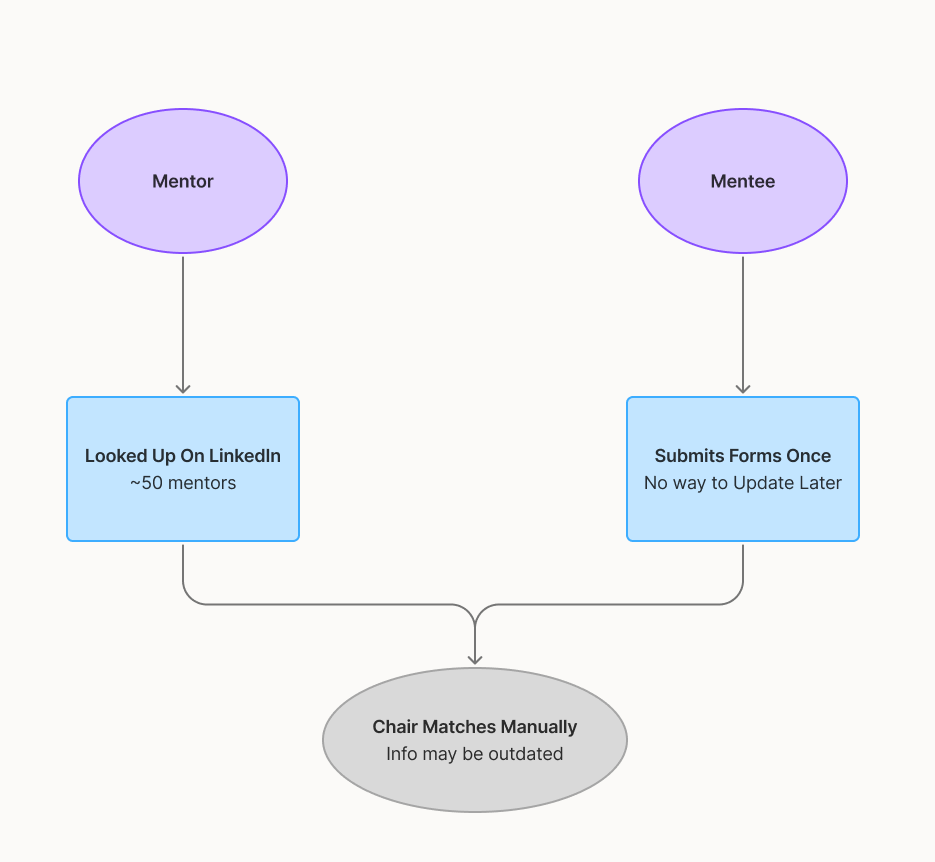
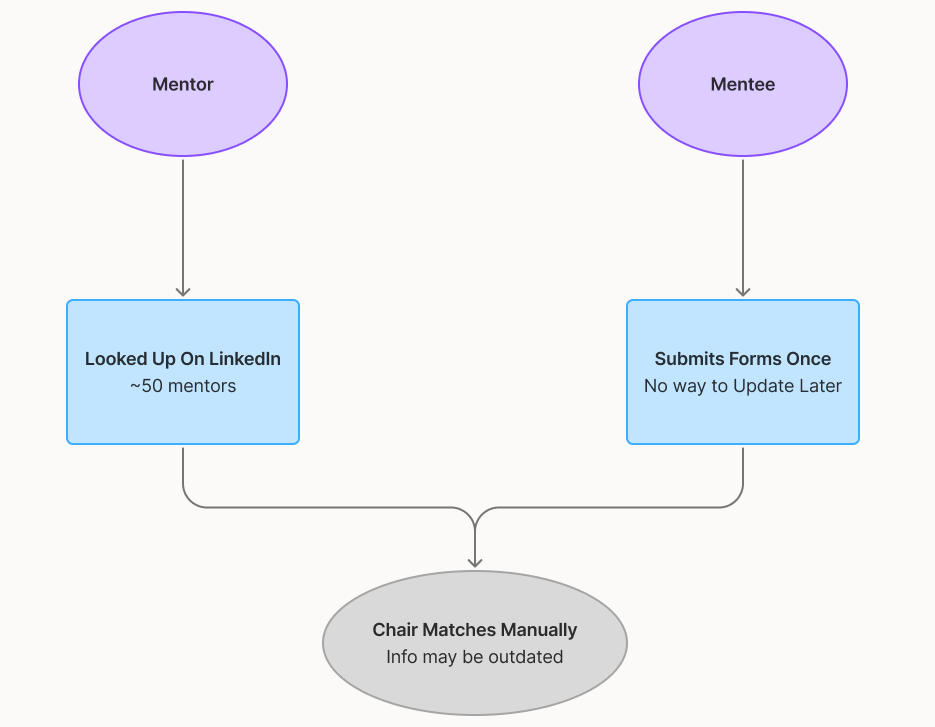
Reword Mentorship Platform research insight #3 (career misalignment)
Claude-Session: https://claude.ai/code/session_01LuSoDMzCnjxERcvJJePQG7

diff --git a/main.js b/main.js
@@ -413,7 +413,7 @@ const cases = [
     insights: [
       { q: 'Mentors never submitted anything', a: 'Their background had to be gathered from LinkedIn by hand, one profile at a time.' },
       { q: 'Mentees couldn\'t remember or change what they wrote', a: 'The form was filled out months before matching, and there was no way to go back and update it.' },
-      { q: 'Shared context helped mentorships last', a: 'Pairs with something in common sustained the relationship more easily.' },
+      { q: 'Career misalignment led to drop-off', a: 'Mentees were more likely to leave when their mentor\'s career path or specialty didn\'t align with theirs.' },
       { q: 'Every platform we looked at offered import', a: 'None of them asked people to type their background from scratch.' },
     ],
     researchVisual: { src: 'images_mp/research-time.png', label: 'Estimated time to manually review and create matches' },

diff --git a/index.html b/index.html
@@ -7,7 +7,7 @@
 <title>Nicole Fajardo</title>
 <meta name="color-scheme" content="light">
 <link href="https://fonts.googleapis.com/css2?family=Nunito:wght@400;600;700;800&family=Lato:ital,wght@0,300;0,400;0,700;1,300;1,400&display=swap" rel="stylesheet">
-<link rel="stylesheet" href="styles.css?v=20260909-1d">
+<link rel="stylesheet" href="styles.css?v=20260909-1e">
 </head>
 <body>
 <div class="cs-lightbox" id="cs-lightbox" onclick="closeLightbox()">
@@ -216,6 +216,6 @@
   </div><!-- /cs-wrap -->
 </div><!-- /case-study -->
 <button onclick="window.scrollTo({top:0,behavior:'smooth'})" id="back-to-top">↑</button>
-<script src="main.js?v=20260909-1d"></script>
+<script src="main.js?v=20260909-1e"></script>
 </body>
 </html>
